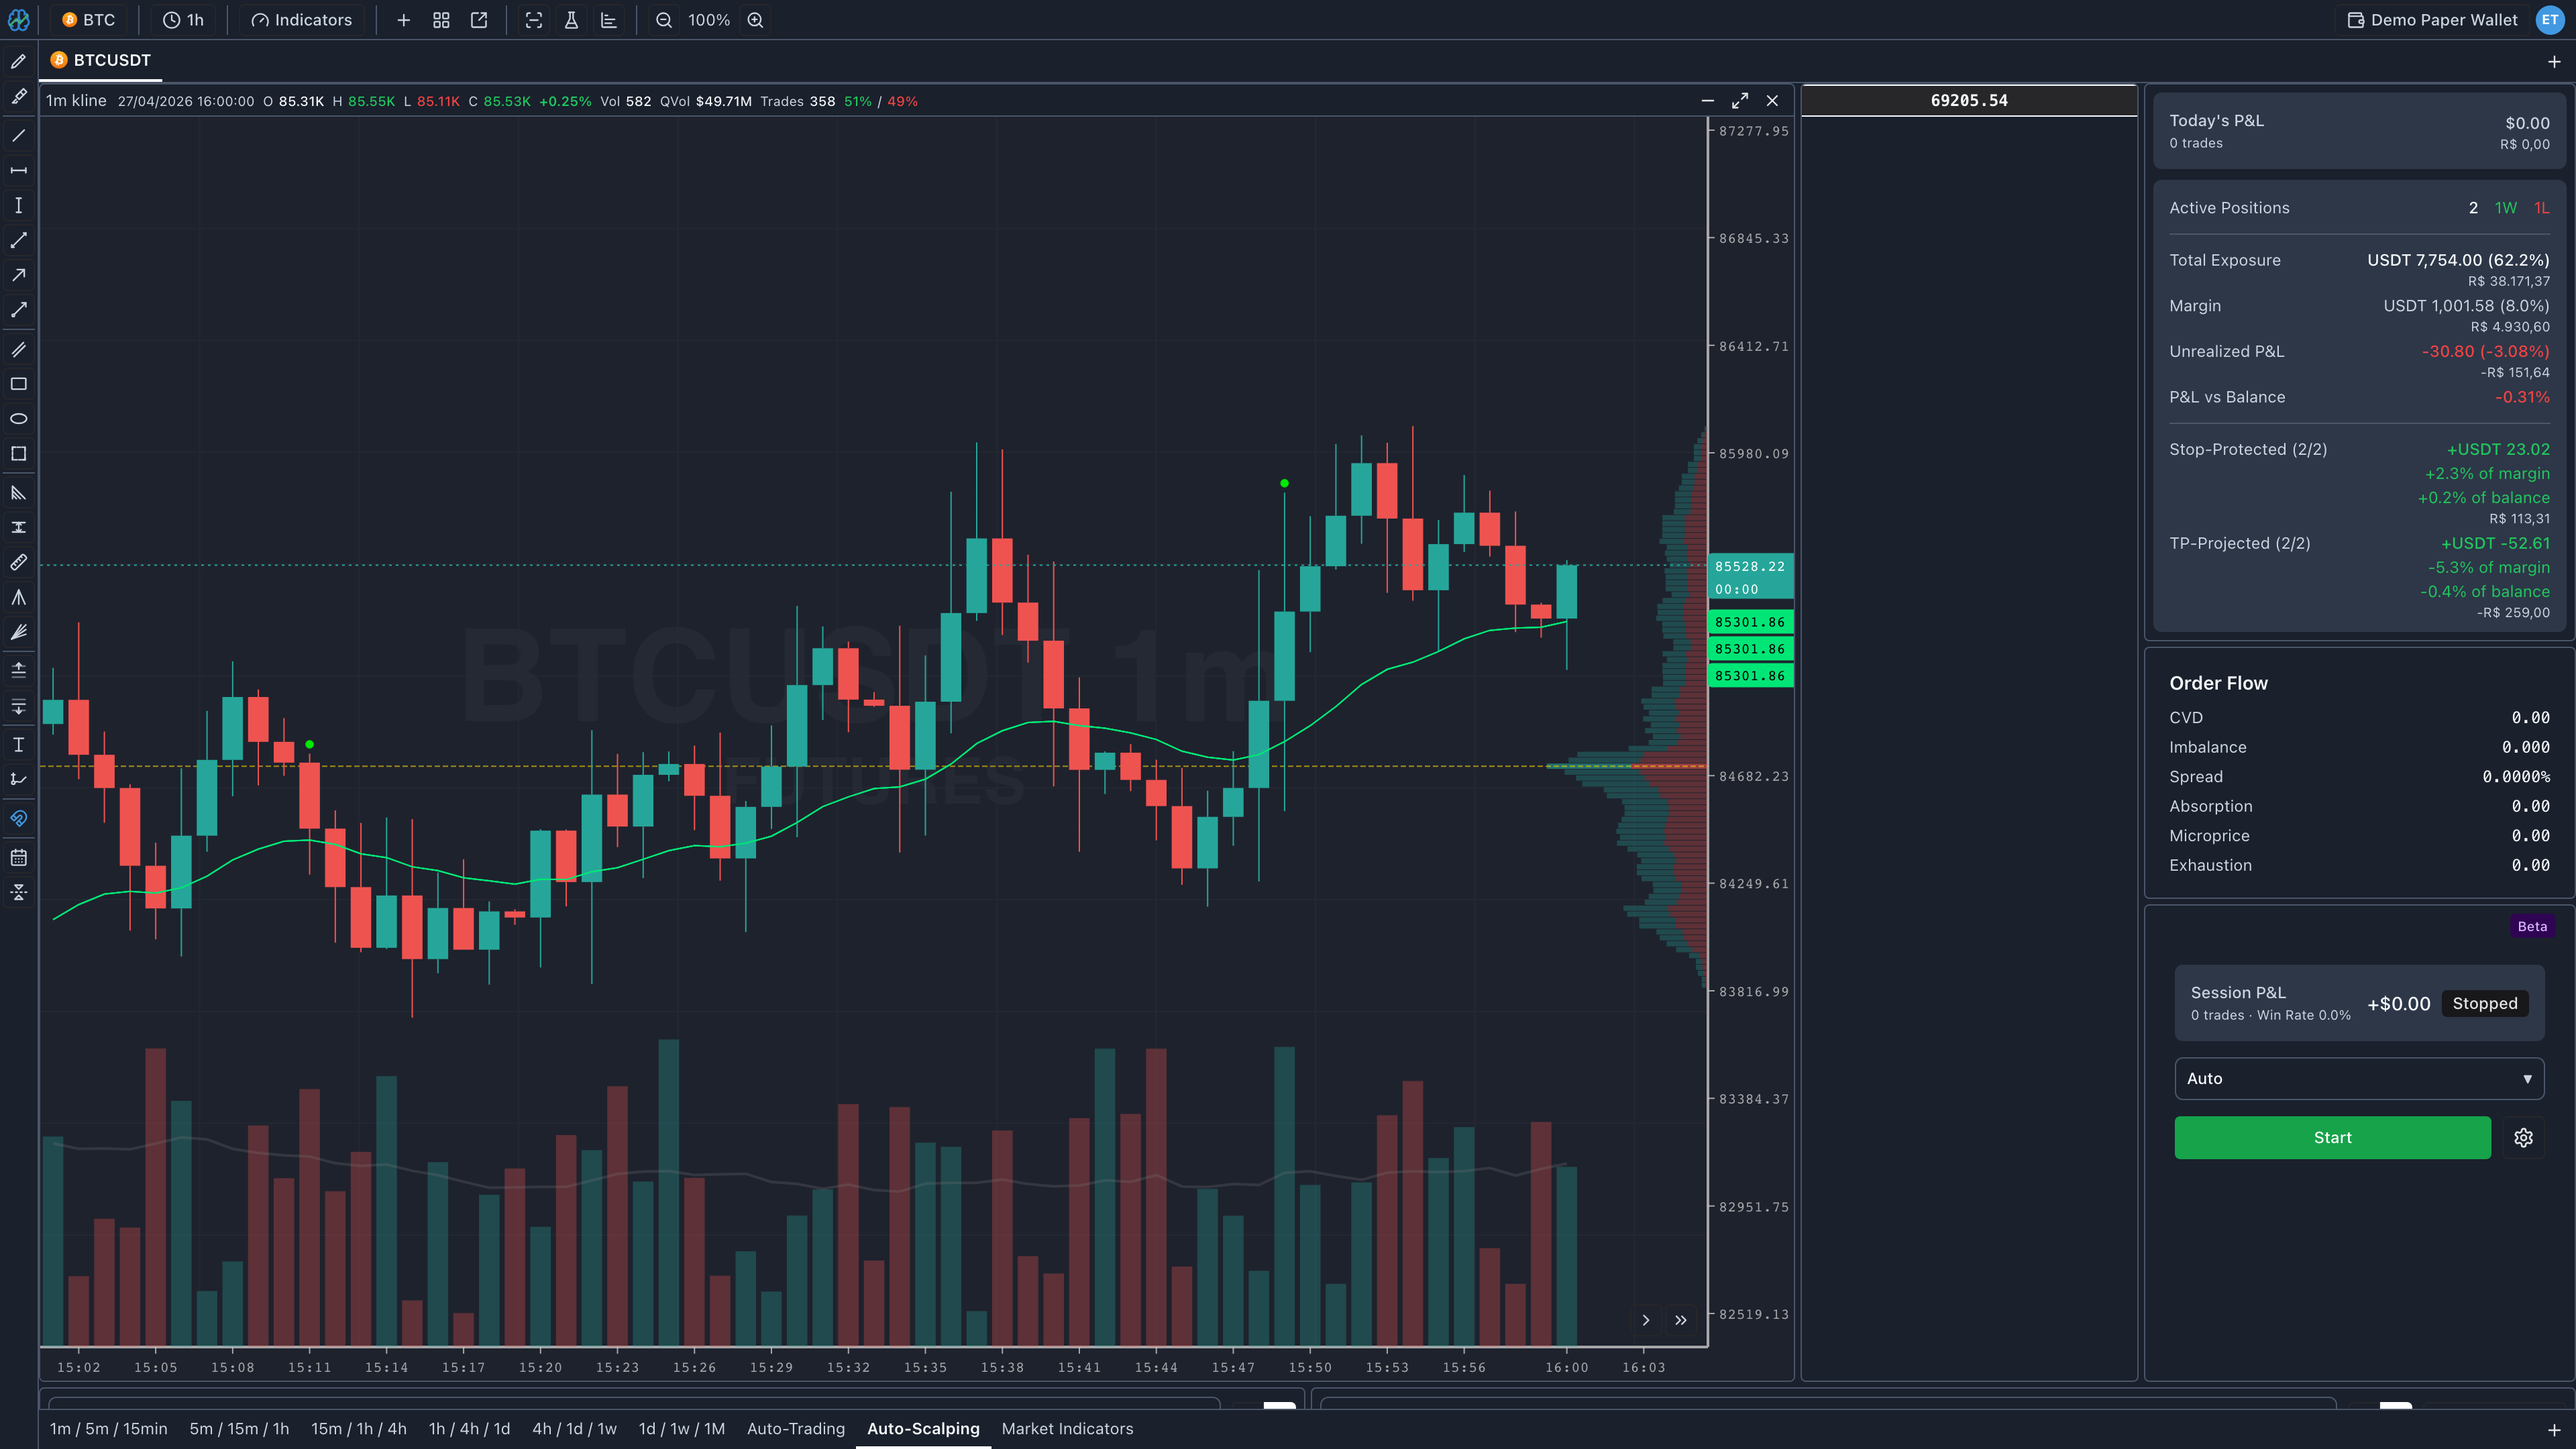
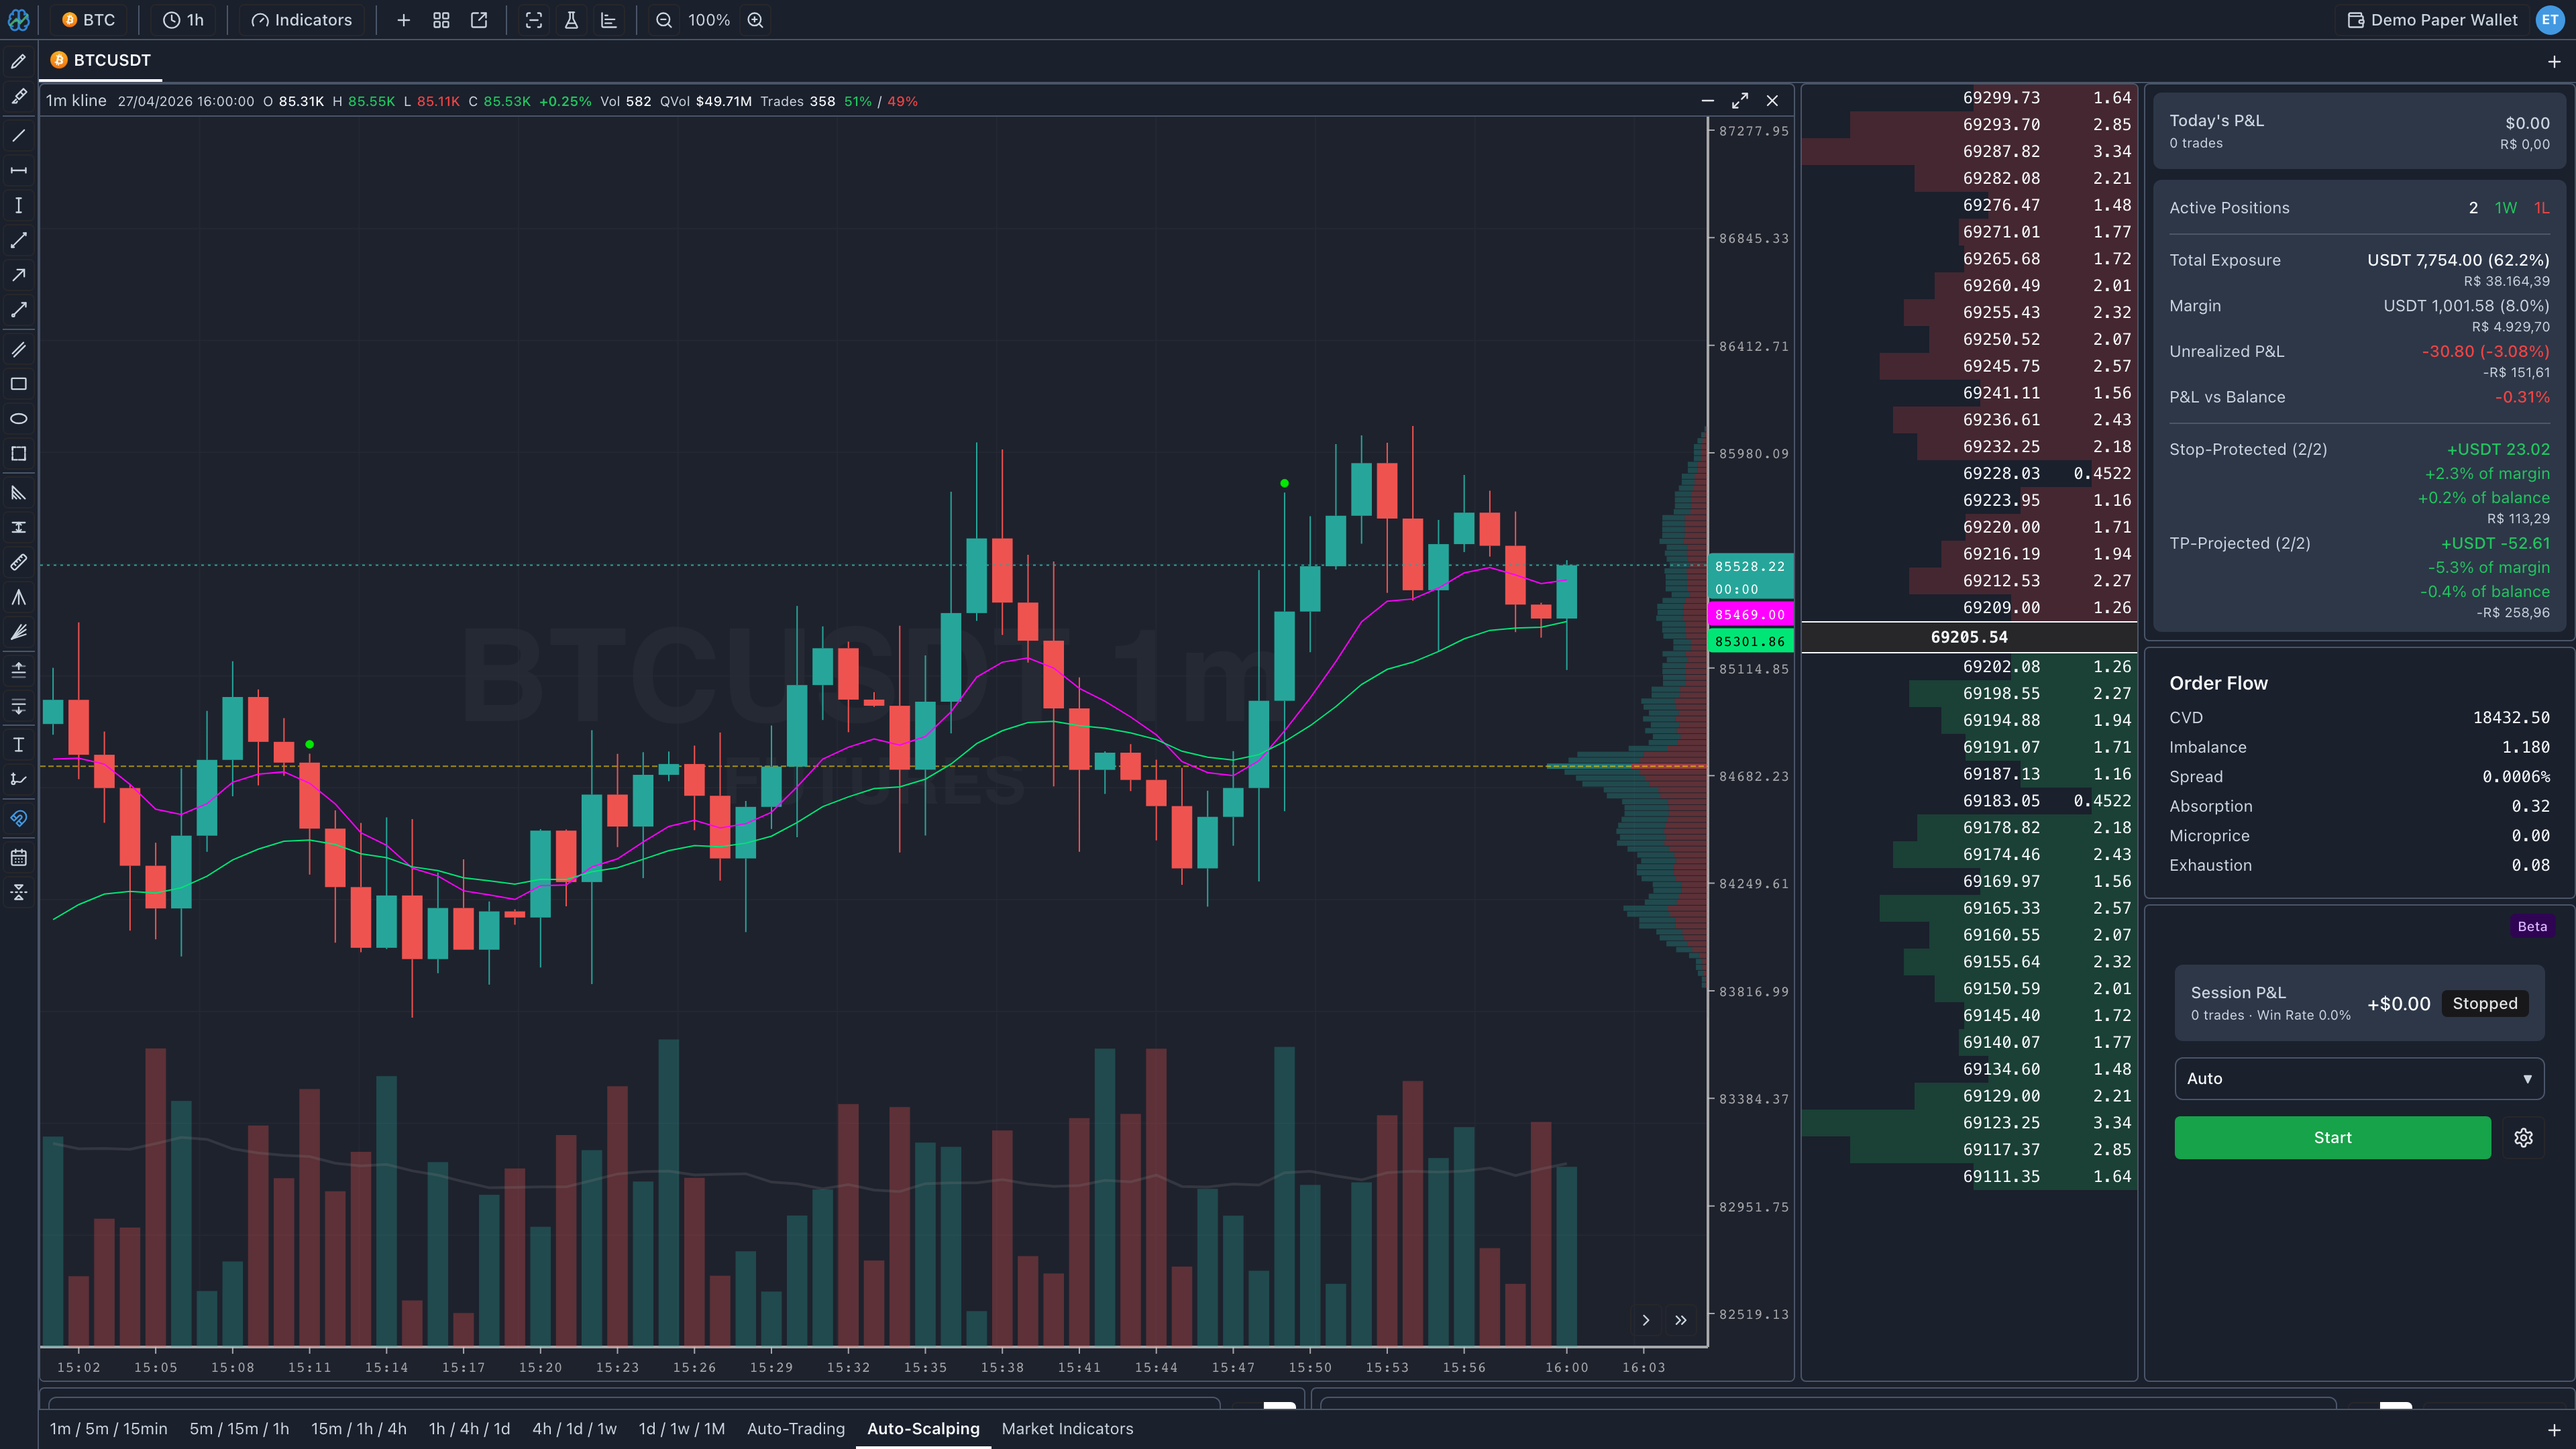
chore: add Fibonacci + Wallets screenshots; refresh existing 7
- New screenshot-7 (Fibonacci retracement on BTCUSDT 1h) and screenshot-8
  (Wallets dialog) added to the gallery.
- Re-captured screenshot-0..5 with populated L2 depth + Order Flow Metrics
  on the Auto-Scalping panel and consistent indicator rendering across all
  charts.

Changed region(s): [[0.6875, 0.031, 0.8438, 0.8375], [0.6562, 0.4032, 0.7188, 0.4963]]

diff --git a/src/components/sections/Screenshots.tsx b/src/components/sections/Screenshots.tsx
@@ -10,6 +10,8 @@ const SCREENSHOTS = [
   { src: '/images/screenshot-4.png', alt: 'MarketMind Auto-Scalping layout with order flow metrics and session P&L' },
   { src: '/images/screenshot-5.png', alt: 'MarketMind Trading Profiles modal — RSI 2 + Stoch 14 multi-timeframe checklist editor' },
   { src: '/images/screenshot-6.png', alt: 'MarketMind Market Indicators dashboard — Fear & Greed, BTC Dominance, MVRV, Funding Rates, ADX' },
+  { src: '/images/screenshot-7.png', alt: 'MarketMind chart with a Fibonacci retracement on BTCUSDT 1h, levels labeled 0% / 23.6% / 38.2% / 50% / 61.8% / 100%' },
+  { src: '/images/screenshot-8.png', alt: 'MarketMind Wallets dialog with paper-trading wallets, balances, initial balances, and net P&L percentages' },
 ];
 
 export const Screenshots = () => {
